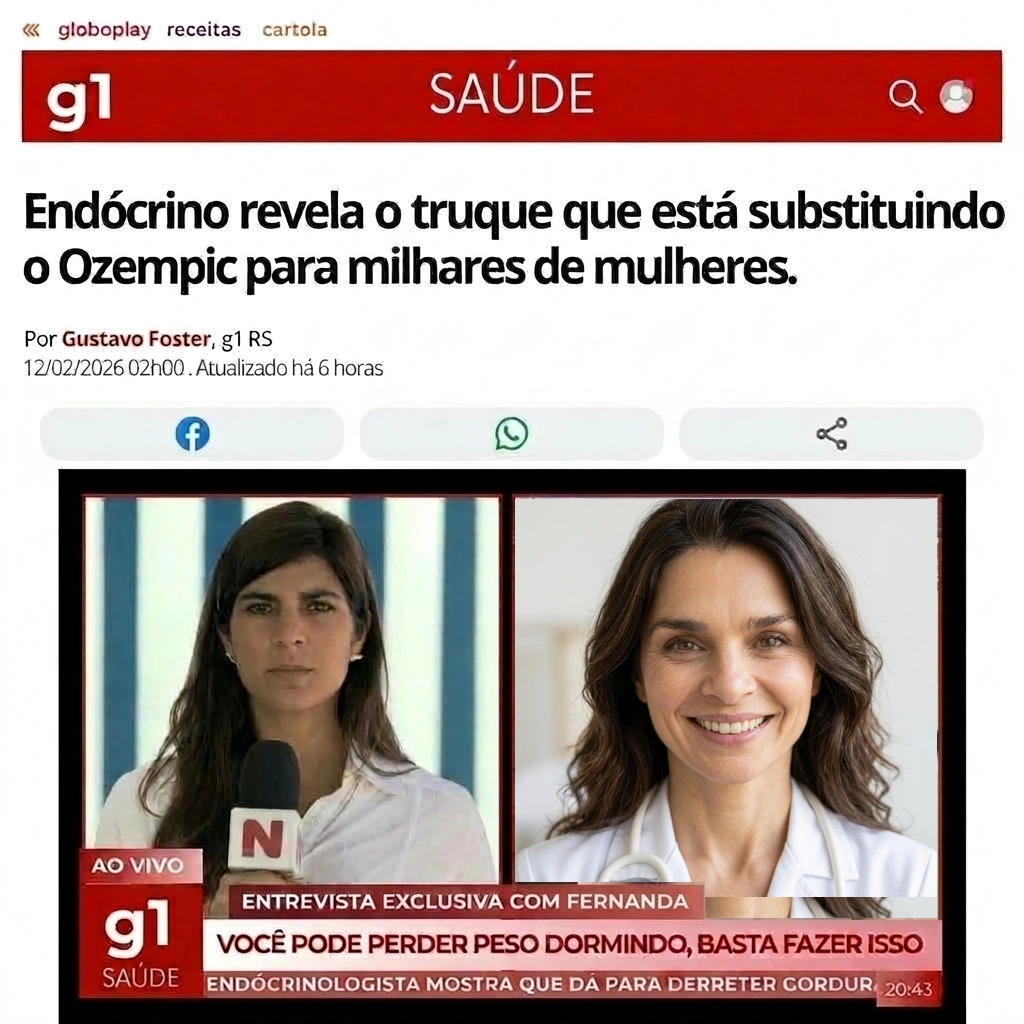
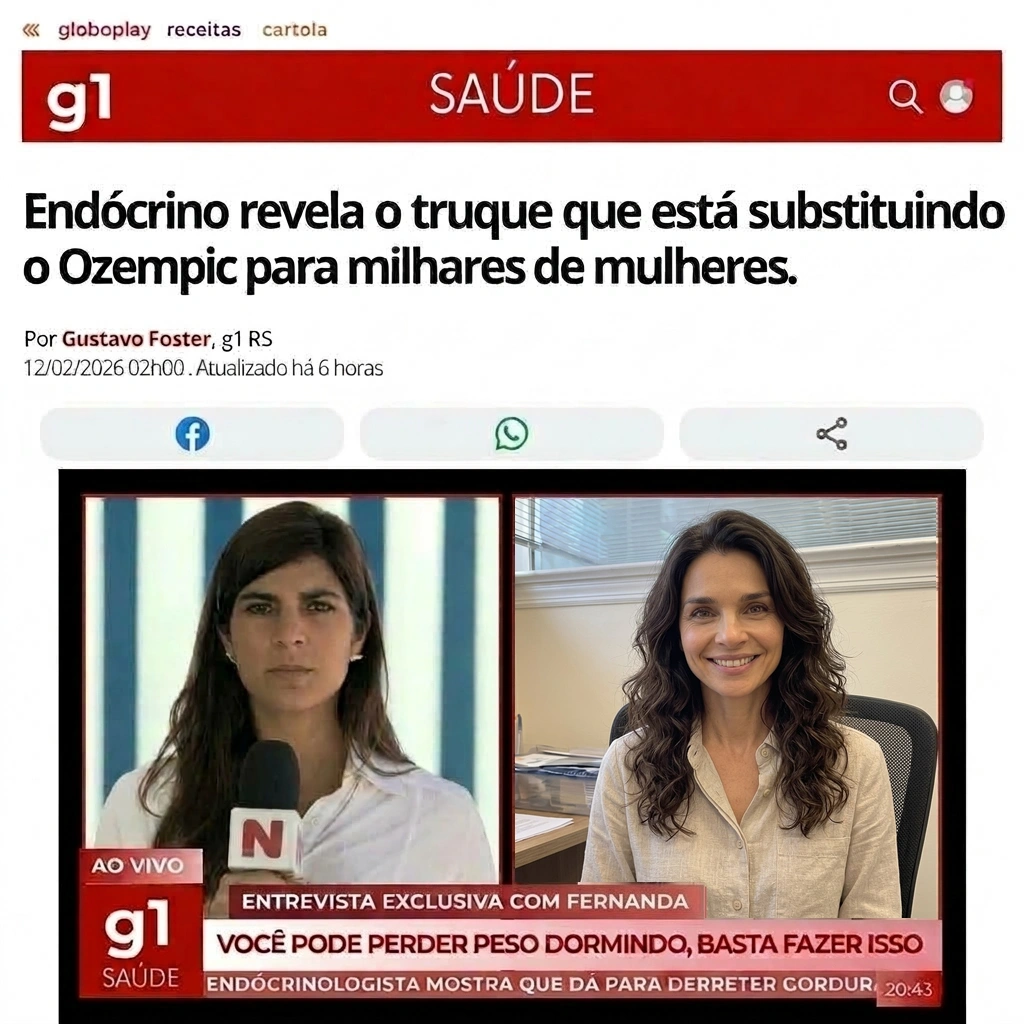
Troca personagem na noticia mantendo a mesma posicao, roupa e ambiente do original, e mantem corte original na primeira pagina

Changed region(s): [[0.5, 0.4688, 0.9375, 0.9062]]

diff --git a/assets/app.js b/assets/app.js
@@ -307,7 +307,7 @@
       render: () => `
         <h2 class="title">O efeito do Ozempic por R$5 ⭐</h2>
         <div class="news">
-          <img class="news-img" src="/assets/entrevista-globo-Cr7zZD5Q.webp?v=2" alt="Notícia sobre a Mistura Natural">
+          <img class="news-img" src="/assets/entrevista-globo-Cr7zZD5Q.webp?v=3" alt="Notícia sobre a Mistura Natural">
         </div>
         ${btn('Continuar')}`,
       after: continuar,

diff --git a/index.html b/index.html
@@ -17,8 +17,8 @@
 
     <link rel="preload" as="image" href="/assets/logo-formula-insulina.png" />
     <link rel="preload" as="image" href="/assets/doutora-hero.jpg" />
-    <link rel="stylesheet" href="/assets/styles.css?v=9" />
-    <script src="/assets/app.js?v=9" defer></script>
+    <link rel="stylesheet" href="/assets/styles.css?v=10" />
+    <script src="/assets/app.js?v=10" defer></script>
 
     <!-- Meta Pixel Code -->
     <script>
